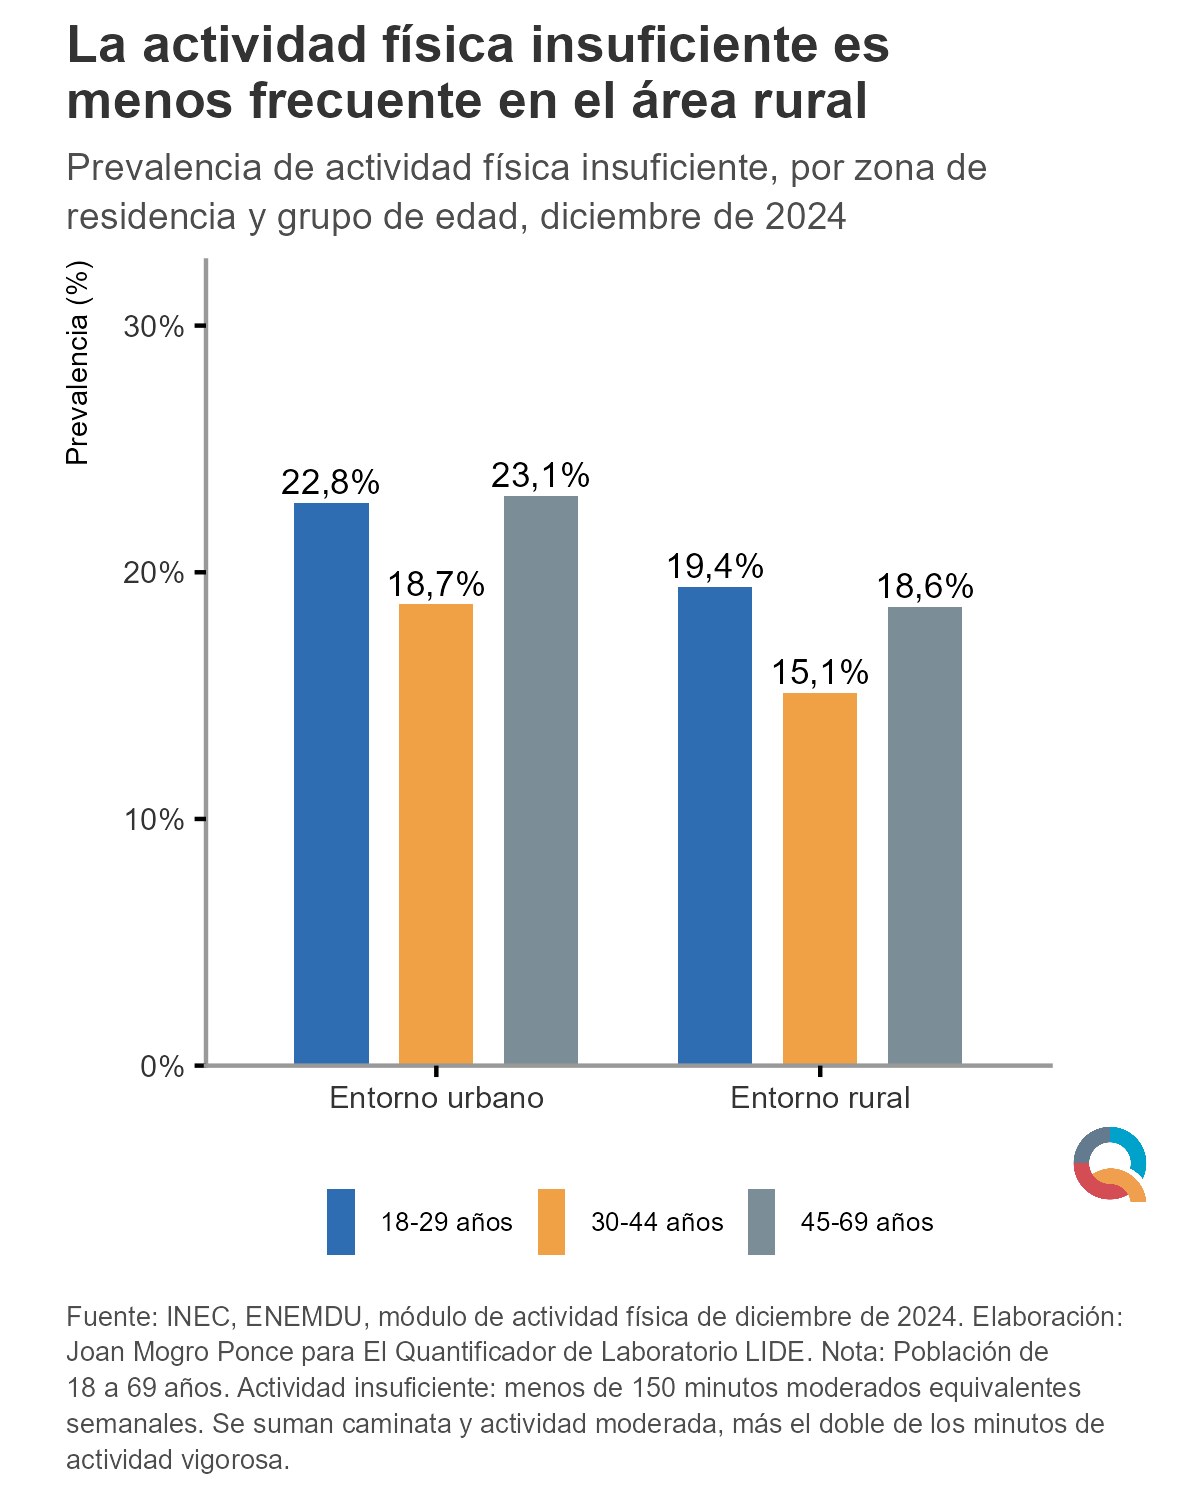
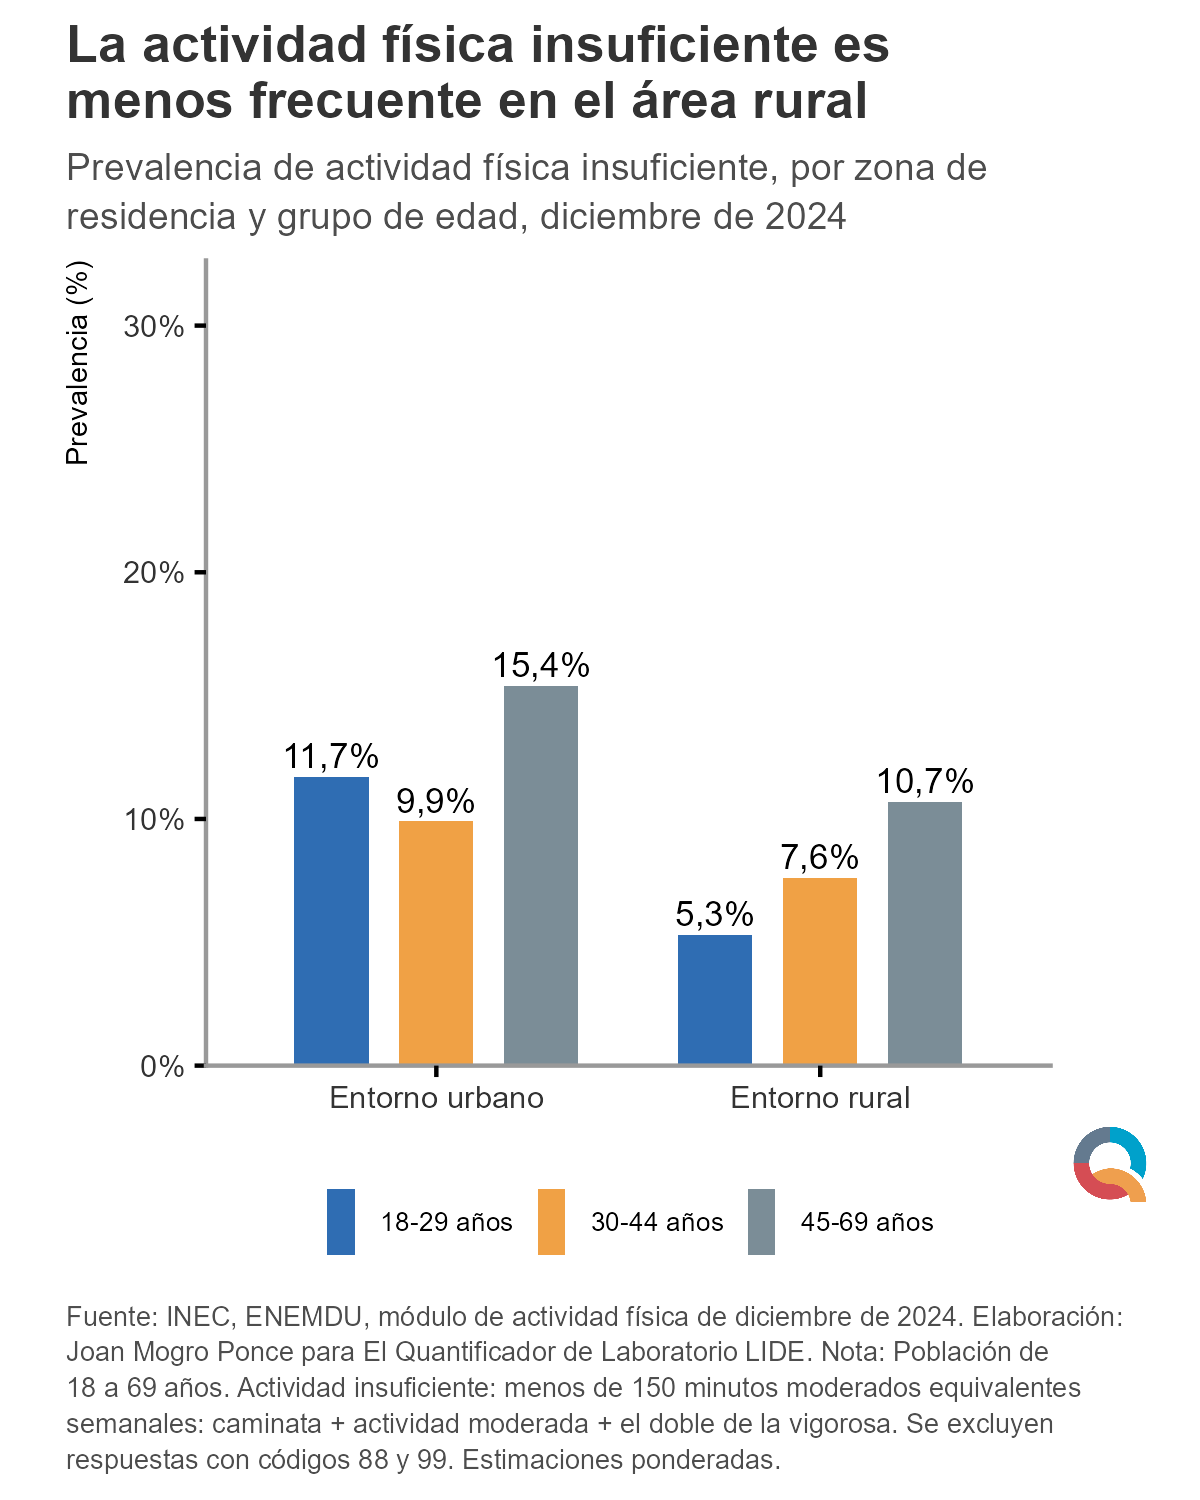
Correct chart 29 physical activity estimates for invalid responses

diff --git a/data/sources/enemdu_actividad_fisica_insuficiente.md b/data/sources/enemdu_actividad_fisica_insuficiente.md
@@ -25,5 +25,26 @@ Archivo utilizado:
 
 - El gráfico publicado se restringe a diciembre de 2024.
 - El gráfico final muestra únicamente población de 18 a 69 años.
-- La población adulta se divide en seis grupos etarios: 18-24, 25-34, 35-44, 45-54, 55-64 y 65-69 años.
+- La población adulta se divide en tres grupos etarios: 18-29, 30-44 y 45-69 años.
 - Se considera actividad física insuficiente cuando el total semanal es menor a 150 minutos moderados equivalentes.
+- Minutos moderados equivalentes = caminata + actividad moderada + 2 × actividad vigorosa. Cada componente es días por semana × (horas diarias × 60 + minutos diarios).
+- Se incluyen únicamente respuestas 1 o 2 en `af201cod`, `af202cod` y `af203cod`. Los códigos 88 y 99 se excluyen del numerador y del denominador; no se convierten en cero minutos. Las respuestas 2 sí aportan cero minutos al componente correspondiente.
+- Se usa `fexp` para calcular las proporciones dentro de cada grupo de edad y área de residencia.
+
+## Corrección del 19 de octubre de 2026
+
+El cálculo anterior clasificaba los códigos 88 y 99 como cero minutos de actividad, lo que elevaba las prevalencias. De 17.730 registros de personas de 18 a 69 años, se excluyen 1.386 con esos códigos y se conservan 16.344 respuestas válidas. Todos los registros con respuesta 1 tienen días, horas y minutos informados.
+
+| Edad | Urbana anterior | Urbana corregida | Rural anterior | Rural corregida |
+|---|---:|---:|---:|---:|
+| 18-29 años | 22,8% | 11,7% | 19,4% | 5,3% |
+| 30-44 años | 18,7% | 9,9% | 15,1% | 7,6% |
+| 45-69 años | 23,1% | 15,4% | 18,6% | 10,7% |
+
+Como contraste externo, el cálculo corregido reproduce, redondeadas a una decimal, las cifras del INEC para diciembre de 2024: nacional 11,3%; urbana 12,6%; rural 8,3%; por edad 9,9%, 9,3% y 14,0%. Las seis cifras cruzadas por área y edad son cálculos propios a partir de los microdatos.
+
+Fuentes oficiales:
+
+- [Resultados de diciembre de 2024, INEC](https://www.ecuadorencifras.gob.ec/documentos/web-inec/Estadisticas_Sociales/Actividad_fisica/2024/202412_Actividad_Fisica.pdf)
+- [Nota técnica, INEC](https://www.ecuadorencifras.gob.ec/documentos/web-inec/Estadisticas_Sociales/Actividad_fisica/2024/Nota_tecnica_Actividad_Fisica.pdf)
+- [Actividad física y sedentarismo: acceso a datos](https://www.ecuadorencifras.gob.ec/actividad-fisica-y-sedentarismo/)
